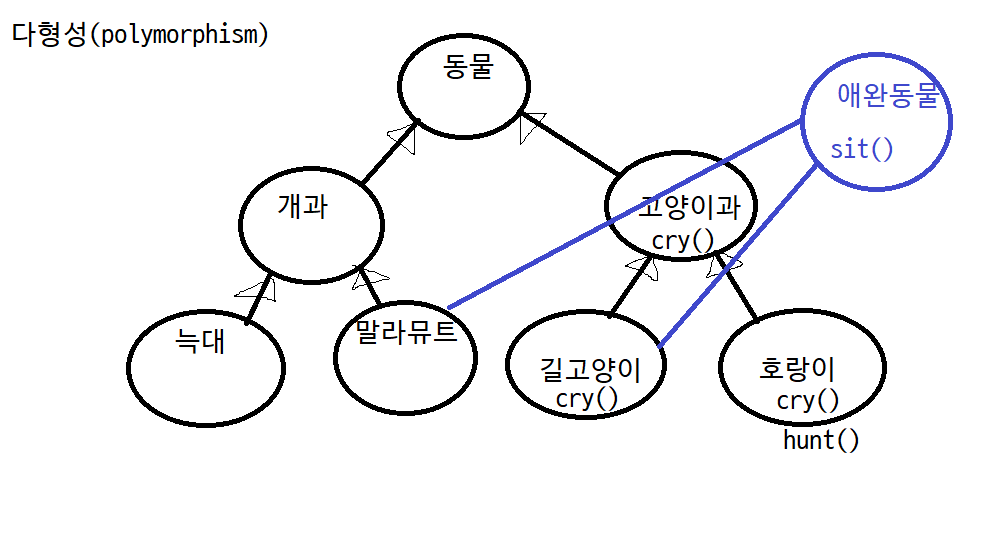
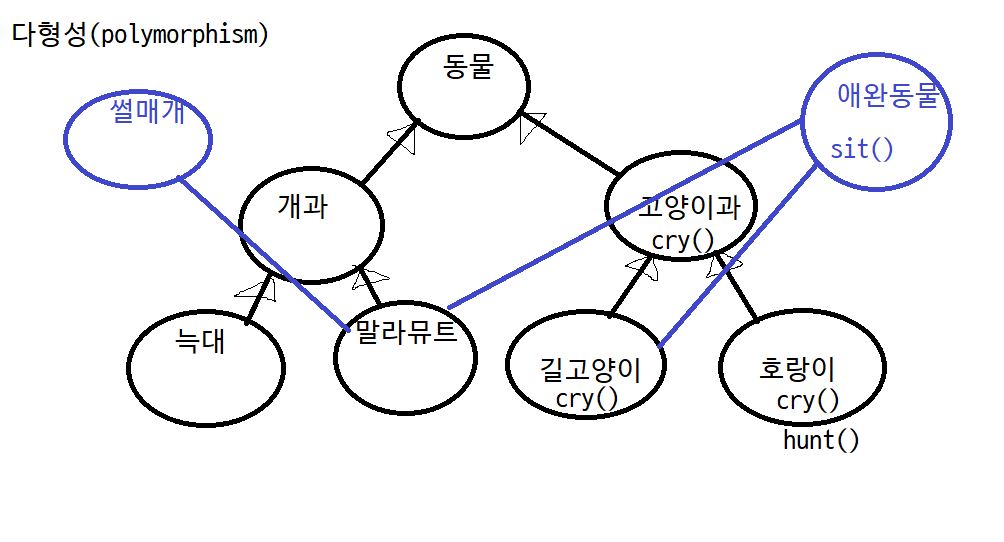
interface

diff --git a/src/p08/textbook/s080301/Television.java b/src/p08/textbook/s080301/Television.java
@@ -1,5 +1,32 @@
 package p08.textbook.s080301;
 
-public class Television {
+import p08.textbook.s080205.RemoteControl;
+
+public class Television implements RemoteControl {
+
+	private int volume;
+
+	@Override
+	public void turnOn() {
+		System.out.println("TV를 켭니다.");
+	}
+
+	@Override
+	public void turnOff() {
+		System.out.println("TV를 끕니다.");
+	}
+
+	@Override
+	public void setVolume(int volume) {
+		if (volume > RemoteControl.MAX_VOLUME) {
+			this.volume = RemoteControl.MAX_VOLUME;
+		} else if (volume < RemoteControl.MIN_VOLUME) {
+			this.volume = RemoteControl.MIN_VOLUME;
+		} else {
+			this.volume = volume;
+		}
+		System.out.println("현재 TV 볼륨: " + this.volume);
+		
+	}
 
 }

diff --git a/src/p08/textbook/s080301/Audio.java b/src/p08/textbook/s080301/Audio.java
@@ -1,5 +1,30 @@
 package p08.textbook.s080301;
 
-public class Audio {
+import p08.textbook.s080205.RemoteControl;
 
+public class Audio implements RemoteControl {
+	private int volume;
+
+	@Override
+	public void turnOn() {
+		System.out.println("Audio를 켭니다.");
+	}
+
+	@Override
+	public void turnOff() {
+		System.out.println("Audio를 끕니다.");
+	}
+
+	@Override
+	public void setVolume(int volume) {
+		if (volume > RemoteControl.MAX_VOLUME) {
+			this.volume = RemoteControl.MAX_VOLUME;
+		} else if (volume < RemoteControl.MIN_VOLUME) {
+			this.volume = RemoteControl.MIN_VOLUME;
+		} else {
+			this.volume = volume;
+		}
+		System.out.println("현재 Audio 볼륨: " + this.volume);
+
+	}
 }

diff --git a/src/p08/lecture/ex3/Malamute.java b/src/p08/lecture/ex3/Malamute.java
@@ -1,0 +1,15 @@
+package p08.lecture.ex3;
+
+public class Malamute implements Pet, SledDog {
+
+	@Override
+	public void pull() {
+		System.out.println("썰매를 끕니다.");
+	}
+
+	@Override
+	public void sit() {
+		System.out.println("앉습니다.");
+	}
+	
+}

diff --git a/src/p08/lecture/ex3/A01Interface.java b/src/p08/lecture/ex3/A01Interface.java
@@ -1,0 +1,14 @@
+package p08.lecture.ex3;
+
+public class A01Interface {
+	public static void main(String[] args) {
+		Malamute d1 = new Malamute();
+		Pet p1 = d1;
+		p1.sit();
+//		p1.pull(); // x
+		
+		SledDog s1 = d1;
+//		s1.sit(); // x
+		s1.pull();
+	}
+}

diff --git a/src/p08/textbook/s080301/RemoteControlExample.java b/src/p08/textbook/s080301/RemoteControlExample.java
@@ -1,0 +1,11 @@
+package p08.textbook.s080301;
+
+import p08.textbook.s080205.RemoteControl;
+
+public class RemoteControlExample {
+	public static void main(String[] args) {
+		RemoteControl rc;
+		rc = new Television();
+		rc = new Audio();
+	}
+}

diff --git a/src/p08/lecture/ex3/SledDog.java b/src/p08/lecture/ex3/SledDog.java
@@ -1,0 +1,5 @@
+package p08.lecture.ex3;
+
+public interface SledDog {
+	void pull();
+}

diff --git a/src/p08/textbook/s080303/SmartTelevision.java b/src/p08/textbook/s080303/SmartTelevision.java
@@ -1,0 +1,5 @@
+package p08.textbook.s080303;
+
+public class SmartTelevision {
+
+}

diff --git a/src/p08/lecture/ex3/Pet.java b/src/p08/lecture/ex3/Pet.java
@@ -1,0 +1,5 @@
+package p08.lecture.ex3;
+
+public interface Pet {
+	void sit();
+}

diff --git a/src/p08/textbook/s080303/Searchable.java b/src/p08/textbook/s080303/Searchable.java
@@ -1,0 +1,5 @@
+package p08.textbook.s080303;
+
+public interface Searchable {
+
+}
